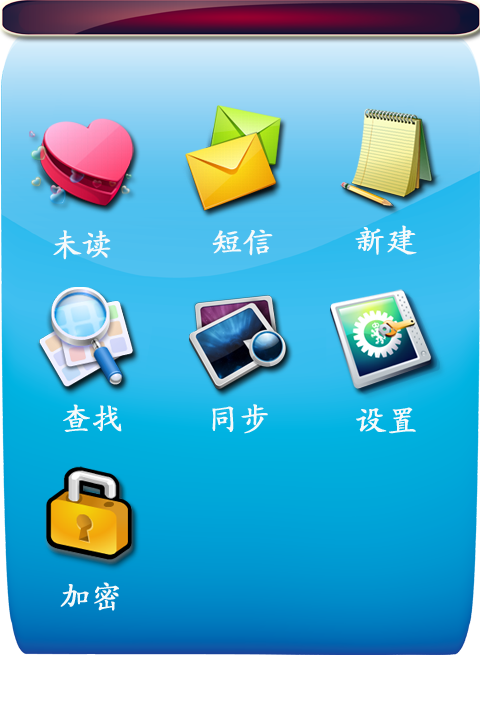
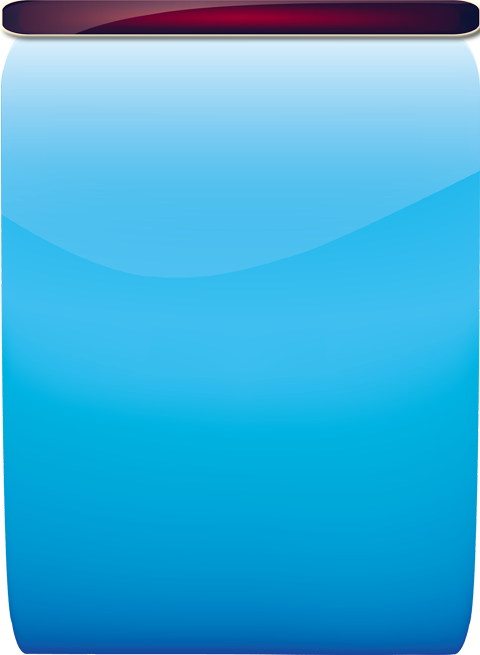
//添加了新的图标

diff --git a/01.DevelopLibrary/03.Code/App/InfoCenterOfSmartPhone/resource.h b/01.DevelopLibrary/03.Code/App/InfoCenterOfSmartPhone/resource.h
@@ -18,12 +18,27 @@
 #define MZ_IDC_UNREAD_SMS				131
 
 
-#define IDR_PNG_MainWndSmsLookBtnDown	120
-#define IDR_PNG_MainWndSmsLookBtnUp		121
+#define IDR_PNG_UNREAD_UP				120
+#define IDR_PNG_UNREAD_DOWN				121
 #define	IDR_TOOLBAR_MAIN_WND			122
 
-#define IDR_PNG_MainWndSmsSendBtnDown	122
-#define IDR_PNG_MainWndSmsSendBtnUp		123
+#define IDR_PNG_SMS_UP					125
+#define	IDR_PNG_SMS_DOWN				126
+
+#define IDR_PNG_NEW_UP					127
+#define	IDR_PNG_NEW_DOWN				128
+
+#define IDR_PNG_FIND_UP					129
+#define	IDR_PNG_FIND_DOWN				130
+
+#define IDR_PNG_ENCRYPT_UP				131
+#define	IDR_PNG_ENCRYPT_DOWN			132
+
+#define IDR_PNG_SYNC_UP					133
+#define	IDR_PNG_SYNC_DOWN				134
+
+#define IDR_PNG_SETUP_UP				135
+#define	IDR_PNG_SETUP_DOWN				136
 
 //NewSmsWnd.h
 #define MZ_IDC_SEND_SMS_BTN				101
@@ -41,8 +56,8 @@
 #define	MZ_IDC_SMSLOOKCTOR_TOOLBAR		115
 #define	MZ_IDC_SMSLOOKCTOR_ALPBAR		116
 
-#define IDR_PNG_CTR_LIST_READ			125
-#define IDR_PNG_MAIN_WND_BACKGROUND     126
+#define IDR_PNG_CTR_LIST_READ			200
+#define IDR_PNG_MAIN_WND_BACKGROUND     201
 
 //SmsLookMsgWnd.h
 #define	MZ_IDC_SMSLOOKMSG_LIST			117

diff --git a/01.DevelopLibrary/03.Code/UI/EasySmsUiCtrl.cpp b/01.DevelopLibrary/03.Code/UI/EasySmsUiCtrl.cpp
@@ -207,15 +207,32 @@ HRESULT		CEasySmsUiCtrl::MakeUnReadListRlt ( CEasySmsListBase &clCEasySmsListBas
 
 HRESULT		CEasySmsUiCtrl::GetListCnt( CXmlStream	*pCXmlStream, long	&lCnt )
 {
+	if ( NULL == pCXmlStream )
+	{
+		return	E_FAIL;
+	}
+
+	lCnt	=	0;
+	
 	CXmlNode	*	pCXmlNode	=	NULL;
 	pCXmlStream->SelectNode( L"result/data/data/", &pCXmlNode );
 
 	auto_ptr<CXmlNode>	CXmlNodePtr( pCXmlNode );
 
 	NodeAttribute_t		*pAttributes	=	NULL;
+	long				lAttrCnt		=	0;
 
-	HRESULT	hr	=	CXmlNodePtr->GetNodeContent( NULL, NULL, &pAttributes, &lCnt );
+	HRESULT	hr	=	CXmlNodePtr->GetNodeContent( NULL, NULL, &pAttributes, &lAttrCnt );
 	if ( FAILED( hr ) )												return	E_FAIL;
+
+	for ( int i = 0; i < lAttrCnt; ++i )
+	{
+		if ( 0 == wcsncmp( pAttributes[i].wcsName, L"count", wcslen( L"count" ) ) )
+		{
+			lCnt	=	_wtol( pAttributes[i].wcsValue );
+			break;
+		}
+	}
 	
 	return	S_OK;
 }

diff --git a/01.DevelopLibrary/03.Code/CommonLib/Xml/XmlStream.cpp b/01.DevelopLibrary/03.Code/CommonLib/Xml/XmlStream.cpp
@@ -842,15 +842,16 @@ APP_Result	CXmlStream::ParseXml( char *pcsNodePath, CXmlNode** pclXmlNode )
 			{
 				break;
 			}
-			if ( NULL == pPreNode )
-			{
-				bIsFind	=	FALSE;
-				break;
-			}			
 			pCurNode	=	pPreNode->FirstChildElement( pTemp );
 
 			pPreNode	=	pCurNode;
 			pCurNode	=	NULL;
+
+			if ( NULL == pPreNode )
+			{
+				bIsFind	=	FALSE;
+				break;
+			}	
 		}		
 
 	} while ( FALSE );
